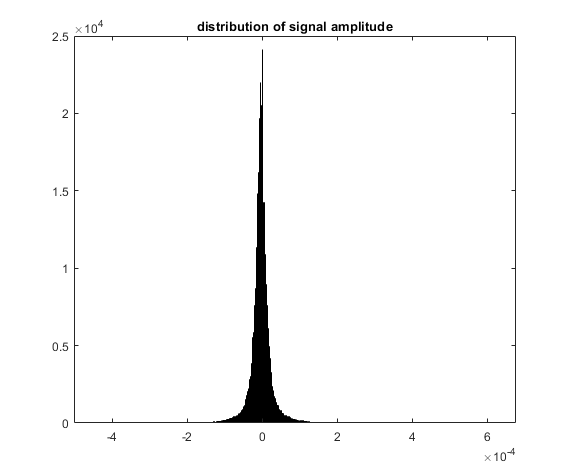
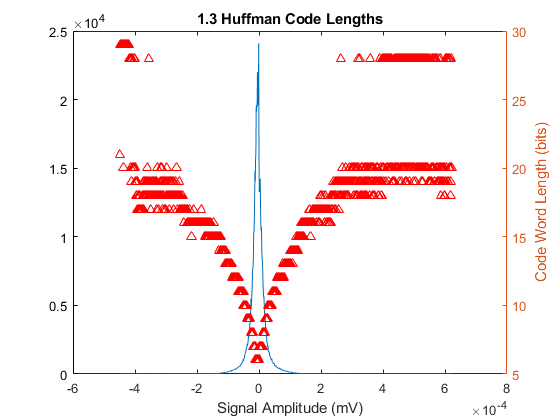
works up to 1.3

diff --git a/main.m b/main.m
@@ -19,10 +19,14 @@ n_samples = width(data);
 data = reshape(data, [1, n_channels * n_samples]);
 
 %% Get amplitude histogram
-[N, edges] = histcounts(data);
-
+% Quantize into 2^12 levels (12 bits)
+num_levels = 2^12;
+edges = min(data):(max(data)-min(data))/(num_levels):max(data);
+[N, edges] = histcounts(data, edges);
+fprintf("1.1 The average bitsize per sample: %f\n", log2(num_levels)) 
 
 %% Plot amplitude histogram
+figure('Name', '1.1 Amplitude Histogram')
 plot(edges(1:end-1), N)
 title('1.1 distribution of signal amplitude')
 
@@ -36,10 +40,40 @@ entropy = -sum(probabilities(probabilities~=0) .* log2(probabilities(probabiliti
 fprintf("1.2 The entropy of the signal is: %f\n", entropy) 
 
 %% Question 1.3
-% Apply Huffman coding
-probabilities_table = table(edges(1:end-1)', probabilities', 'VariableNames', {'edge_lower', 'probability'});
-summary(probabilities_table)
+% Initialize probabilities table
+probabilities_table = table(edges(1:end-1)', probabilities', 'VariableNames', {'lower_edge', 'probability'});
 
+% Print probability statistics
+%summary(probabilities_table)
+
+% Apply Huffman coding
 codetree = Huffman(probabilities_table);
 
+% Parse codetree to codebook
 codebook = tree2book(codetree);
+
+% Save codebook to file
+writetable(struct2table(codebook), 'codebook.csv')
+
+% Plot code length as function of bin edge
+figure('Name', '1.3 Huffman Code Word Lengths')
+code_lengths = num2cell(cellfun(@length, {codebook.code}));
+[codebook.code_length] = code_lengths{:};
+ylabel('Frequency');
+plot(edges(1:end-1), N)
+yyaxis right
+scatter([codebook.lower_edge], [codebook.code_length], '^', 'r')
+xlabel('Signal Amplitude (mV)');
+ylabel('Code Word Length (bits)');
+title('1.3 Huffman Code Lengths')
+
+%% Question 1.4
+% Calculate Huffman Encoded Signal Bitsize
+% Sort by amplitude (lower_edge)
+codebook_table = struct2table(codebook);
+codebook_table = sortrows(codebook_table, 'lower_edge');
+
+% Calculate average 
+average_length = sum((N' .* codebook_table.code_length))/sum(N);
+fprintf("1.4 The average Huffman encoded word length is: %f\n", average_length) 
+

diff --git a/Huffman.m b/Huffman.m
@@ -25,7 +25,7 @@ while numel(queue) > 1
 
     % construct pair node
     node = struct();
-    node.edge_lower = [];  % inner nodes dont have values
+    node.lower_edge = [];  % inner nodes dont have values
     node.left = first;
     node.right = second;
     node.probability = first.probability + second.probability;
@@ -35,22 +35,3 @@ while numel(queue) > 1
 end
 codetree = queue;
 end
-
- 
-% Get length of signal
-% n = width(symbols);
-% % Initialize the PriorityQueue
-% prob_queue = probabilities;  
-% symbol_queue = symbols;  
-% 
-
-% Iterate over queue
-% while length(prob_queue) > 1
-%     [prob_queue, indices] = sort(prob_queue, 'ascending');
-%     symbol_queue = symbol_queue(indices)
-%     first_prob = prob_queue(1);
-%     second_prob = prob_queue(2);
-%     first_symbol = symbol_queue(1);
-%     second_symbol = symbol_queue(2);
-% end
-% codebook = 5

diff --git a/tree2book.m b/tree2book.m
@@ -1,6 +1,7 @@
 function codebook = tree2book(root)
+    % Parse a binary tree representing a huffman codebook
     if (isequal(root.left, []) && isequal(root.right, []))
-       codebook = struct('lower_edge', root.edge_lower, 'code', '0');
+       codebook = struct('lower_edge', root.lower_edge, 'code', '0');
        return
     end
     if (isequal(root.left, []))

diff --git a/concatzero.m b/concatzero.m
@@ -1,4 +1,5 @@
 function varargout = concatzero(varargin)
+    % Append a 0 to beginning of every element in varargin
     if numel(varargin) == 1
         varargout = {strcat('0', varargin{1})};
     % vectorized version

diff --git a/concatone.m b/concatone.m
@@ -1,4 +1,5 @@
 function varargout = concatone(varargin)
+    % Append a 1 to beginning of every element in varargin
     if numel(varargin) == 1
         varargout = {strcat('1', varargin{1})};
     % vectorized version
